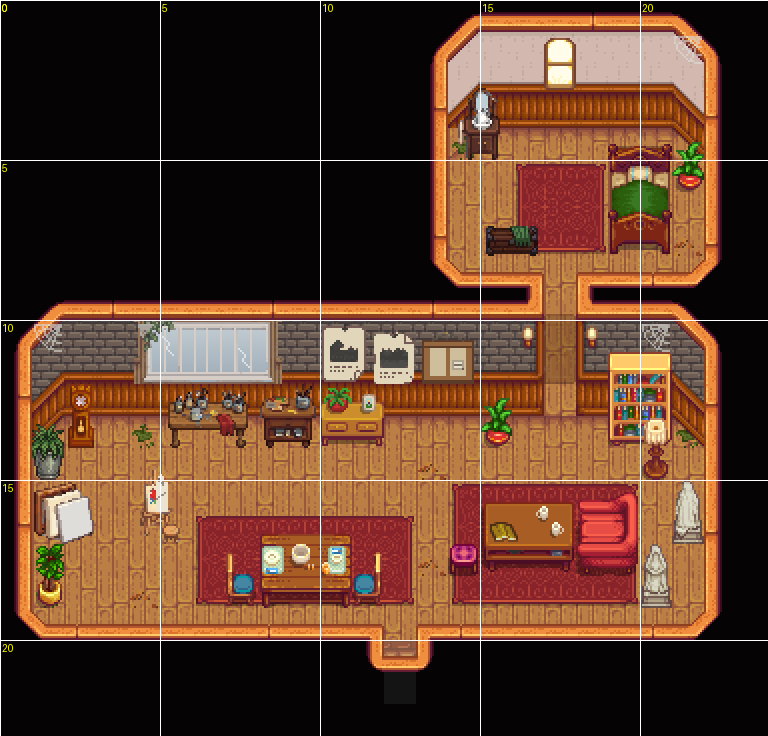
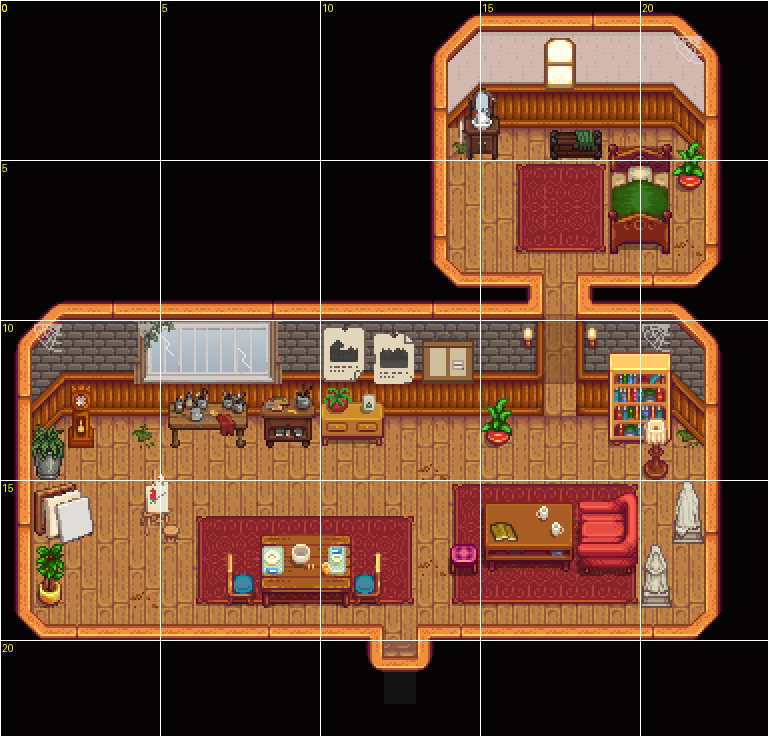
Gilded Vale Old Studio: the back room's trunk under its window (the user, 2026-11-07)

Changed region(s): [[0.7188, 0.1562, 0.7812, 0.2188], [0.625, 0.2812, 0.7188, 0.3438]]

diff --git a/tools/build_vale_buildings.py b/tools/build_vale_buildings.py
@@ -479,7 +479,7 @@ BUILDINGS = {
             ("leaves", 4, 18), ("leaves#2", 13, 17), ("leaves#3", 13, 14), ("moss_patch", 1, 18),
             ("moss_patch#2", 21, 13), ("moss_patch#3", 4, 13),
             # the back room: the artist's cot, a washstand, a trunk, a small window
-            ("washstand", 14, 2), ("window", 17, 1), ("bed", 19, 4), ("chest", 15, 7),
+            ("washstand", 14, 2), ("window", 17, 1), ("bed", 19, 4), ("chest", 17, 4),
             ("rug#2", 16, 5, 3, 3), ("plant", 21, 4),
             ("cobweb#3", 21, 1), ("leaves#4", 21, 7), ("moss_patch#4", 14, 4),
         ],
